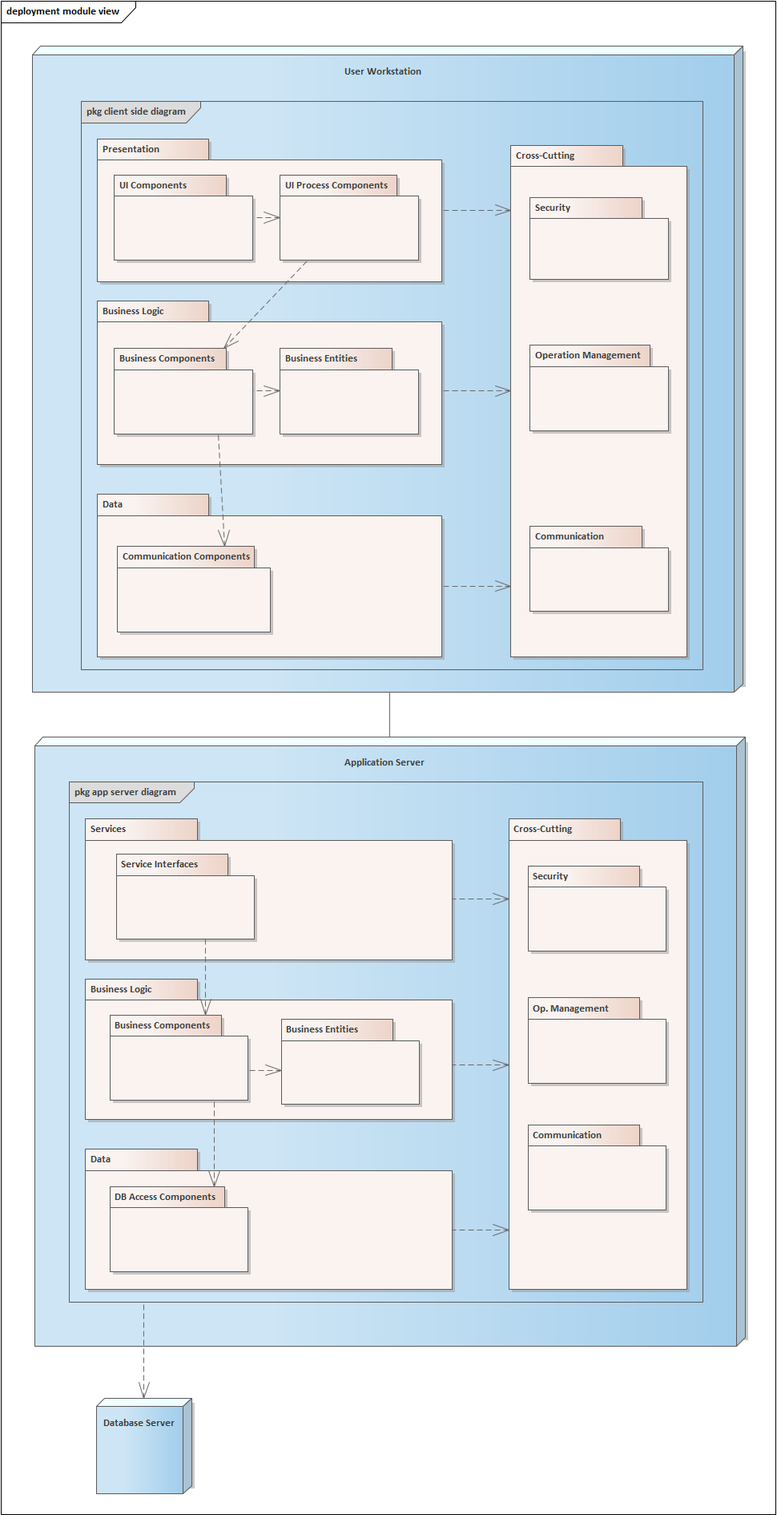
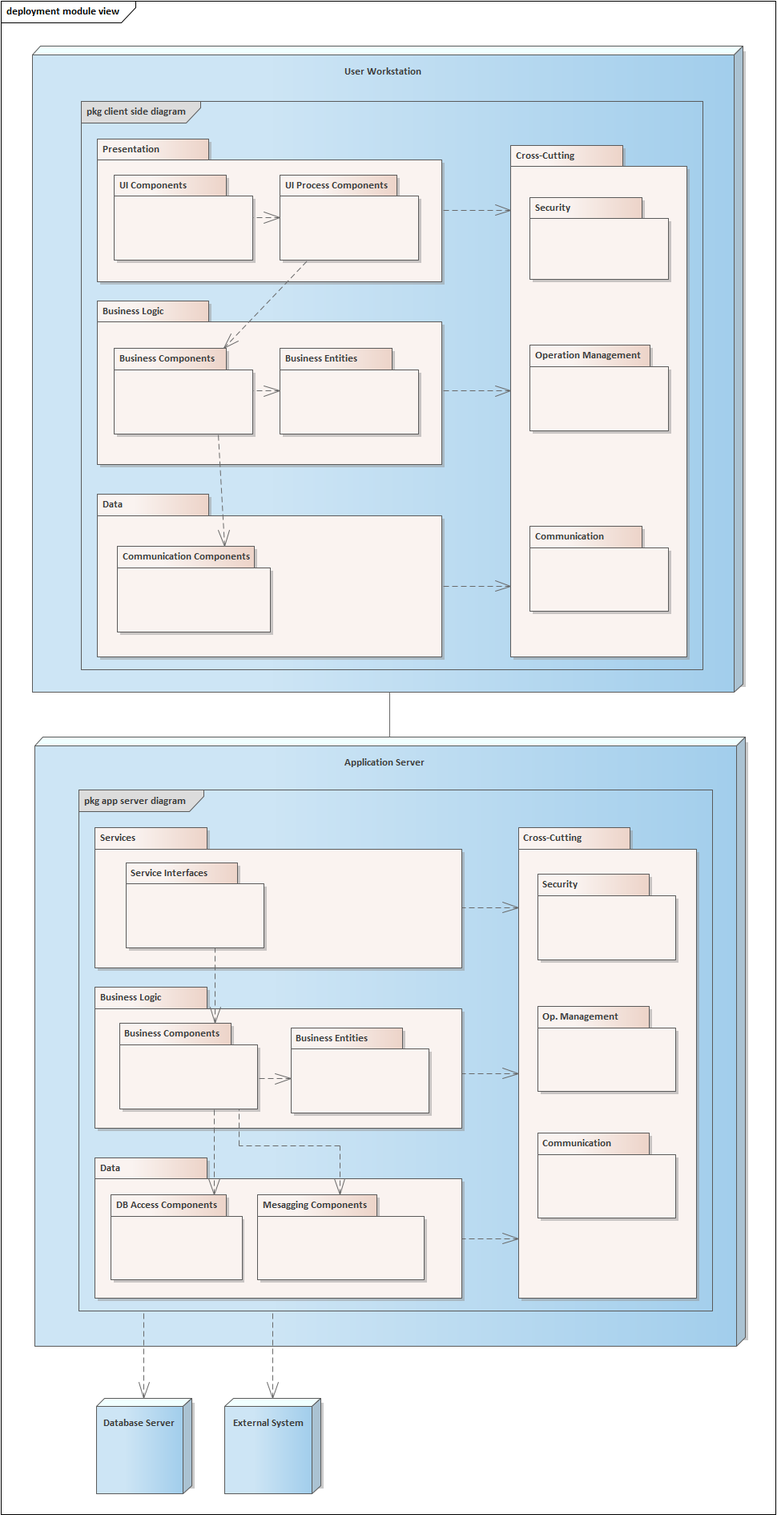
iteration 1: overall system architecture

Changed region(s): [[0.0928, 0.4995, 0.6186, 0.8741], [0.6495, 0.5307, 0.9278, 0.8741], [0.2784, 0.9053, 0.433, 0.9989]]

diff --git a/README.md b/README.md
@@ -11,29 +11,33 @@
 ## System Features:
 
 ### Client Module:
-1. `Register client`
-2. `Delete client`
-3. `Disable client`
-4. `Enable client`
+1. `CE-1 Register client`
+2. `CE-2 Delete client`
+4. `CE-3 Enable client`
+5. `CE-4 Disable client`
 ### Schedule Module:
-1. `Schedule appointment`
-2. `Edit appointment`
-3. `Cancel appointment`
-4. `Finalize appointment`
-### Availability Module:
-1. `Add availability time slot`
-2. `Edit availability time slot`
-3. `Delete availability time slot`
+1. `CA-1 Schedule appointment`
+2. `CA-2 Edit appointment`
+3. `CA-3 Cancel appointment`
+4. `CA-4 Finalize appointment`
+### Appointment Availability Module:
+1. `CB-1 Add availability time slot`
+2. `CB-2 Edit availability time slot`
+3. `CB-3 Delete availability time slot`
 ### Service Module:
-1. `Register service`
-2. `Edit service`
-3. `Disable service`
-4. `Enable service`
-5. `Delete service`
-
+1. `CD-1 Register service`
+2. `CD-2 Disable service`
+4. `CD-3 Enable service`
+5. `CD-4 Delete service`
+3. `CD-5 Edit service`
+### Assistant Module:
+1. `CC-1 Register assistant`
+2. `CC-2 Edit assistant`
+3. `CC-3 Disable assistant`
+4. `CC-4 Enable assistant`
 
 ## Proposed Methodology or Methods:
-- `Attribute-Driven Design
+- `Attribute-Driven Design`
 ### Methodology Activities:
 - `Pending`
 
@@ -114,7 +118,7 @@
 | CON-1 | Users must interact with the system through a web browser in different platforms (Windows, OSX, and Linux and different devices like computers or mobiles) |
 | CON-2 | Code must be hosted on a proprietary Git-based platform like Github                                                                                        |
 | CON-3 | Future support for mobile clients like IOS and Android                                                                                                     |
-| CON-4 | A minimum of 50 simultaneous users must be supported                                                                                                       |
+| CON-4 | Race condition problems must be avoided during high user traffic or parallel processing.                                                                   |
 
 ### Concerns
 
@@ -138,17 +142,18 @@
 
 Quality Attribute Scenarios
 
-| ID  | Quality Attribute | Scenario                                                                                                                                                                                            | Associated Use Case |
-| --- | ----------------- | --------------------------------------------------------------------------------------------------------------------------------------------------------------------------------------------------- | ------------------- |
-| 1   | Availability      | The system must be operational and accessible during working hours, including weekends, with an uptime of 99.5% or higher.                                                                          | All                 |
-| 2   | Security          | The system must use strong data encryption protocols for sensitive information, such as passwords and bank account details, to protect against unauthorized access and breaches.                    | ---                 |
-| 3   | Modifiability     | The system must support the addition of new features within a maximum of 2 months, including development, testing and deployment phases.                                                            | All                 |
-| 4   | Usability         | The system should support multiple languages to accommodate a diverse user base, with localization depending on the geographic region of users.                                                     | All                 |
-| 5   | Performance       | The system must support at least 500 users concurrently querying the prices of services and should be capable of handling up to 1,000 without decreasing average latency by more than 20%.          | ---                 |
-| 6   | Interoperability  | The system must support integration with external system, such as messaging and email services ensuring communication is reliable and occurs within 10 seconds of triggered events.                 | All                 |
-| 7   | Testability       | The system must support integration testing independently of external systems by using stubs                                                                                                        | All                 |
-| 8   | Security          | The system must validate user credentials against an Identity User Service, ensuring that once logged in, users can only access the actions and data they are authorized to use or view             | All                 |
-| 9   | Reliability       | The system must ensure automated, seamless deployment of new features and bug fixes to production, with a maximum of downtime of 5 minutes per deployment and no rollback incidents in 95% of cases | All                 |
+| ID  | Quality Attribute | Scenario                                                                                                                                                                                                                       | Associated Use Case          |
+| --- | ----------------- | ------------------------------------------------------------------------------------------------------------------------------------------------------------------------------------------------------------------------------ | ---------------------------- |
+| 1   | Availability      | The system must be operational and accessible during working hours, including weekends, with an uptime of 99.5% or higher.                                                                                                     | All                          |
+| 2   | Security          | The system must use strong data encryption protocols for sensitive information, such as passwords and bank account details, to protect against unauthorized access and breaches.                                               | ---                          |
+| 3   | Modifiability     | The system must support the addition of new features within a maximum of 2 months, including development, testing and deployment phases.                                                                                       | All                          |
+| 4   | Usability         | The system should support multiple languages to accommodate a diverse user base, with localization depending on the geographic region of users.                                                                                | All                          |
+| 5   | Performance       | The system must support at least 500 users concurrently querying the prices of services and should be capable of handling up to 1,000 without decreasing average latency by more than 20%.                                     | ---                          |
+| 6   | Interoperability  | The system must support integration with external system, such as messaging and email services ensuring communication is reliable and occurs within 10 seconds of triggered events.                                            | All                          |
+| 7   | Testability       | The system must support integration testing independently of external systems by using stubs                                                                                                                                   | All                          |
+| 8   | Security          | The system must validate user credentials against an Identity User Service, ensuring that once logged in, users can only access the actions and data they are authorized to use or view                                        | All                          |
+| 9   | Reliability       | The system must ensure automated, seamless deployment of new features and bug fixes to production, with a maximum of downtime of 5 minutes per deployment and no rollback incidents in 95% of cases                            | All                          |
+| 10  | Reliability       | The system must ensure that race conditions are avoided during concurrent transactions, ensuring that multiple users or processes can access and modify shared data without leading to inconsistent states or data corruption. | CA-1, CA-2, CB-1, CB-2, CB-3 |
 
 
 ## Attribute-Driven Design (ADD)
@@ -160,16 +165,16 @@ The objective of starting an Attribute-Driven Design process is to establish a s
 **Task**: Identify which requirement will be considered as architectural drivers.
 
 
-| Scenario ID           | Importance to the Customer | Difficulty of Implementation |
-| --------------------- | -------------------------- | ---------------------------- |
-| QA-1 Availability     | High                       | High                         |
-| QA-9 Reliability      | High                       | High                         |
-| QA-6 Interoperability | High                       | Medium                       |
-| QA-3 Modifiability    | High                       | Medium                       |
-| QA-2, QA-8 Security   | High                       | Medium                       |
-| QA-5 Performance      | Medium                     | High                         |
-| QA-7 Testability      | Medium                     | Medium                       |
-| QA-4 Usability        | Low                        | Medium                       |
+| Scenario ID             | Importance to the Customer | Difficulty of Implementation |
+| ----------------------- | -------------------------- | ---------------------------- |
+| QA-1 Availability       | High                       | High                         |
+| QA-9, QA-10 Reliability | High                       | High                         |
+| QA-6 Interoperability   | High                       | Medium                       |
+| QA-3 Modifiability      | High                       | Medium                       |
+| QA-2, QA-8 Security     | High                       | Medium                       |
+| QA-5 Performance        | Medium                     | High                         |
+| QA-7 Testability        | Medium                     | Medium                       |
+| QA-4 Usability          | Low                        | Medium                       |
 
 | Category                        | Details                                                                                                                                                                                                                                                                                                                                                             |
 | ------------------------------- | ------------------------------------------------------------------------------------------------------------------------------------------------------------------------------------------------------------------------------------------------------------------------------------------------------------------------------------------------------------------- |
@@ -183,7 +188,7 @@ The objective of starting an Attribute-Driven Design process is to establish a s
 #### Step 2: Establishing Iteration Goal by Selecting Drivers
 
 The iteration goal is to establish an initial overall structure for the system considering the drivers that influence the general structure of the system:
-* QA-9 Reliability
+* QA-9, QA-10 Reliability
 * QA-1 Availability
 * QA-2, QA-8 Security
 * CON-1 Users must interact with the system through a web browser in different platforms (Windows, OSX, and Linux and different devices like computers or mobiles)
@@ -246,6 +251,23 @@ The following figures represent the reference architecture and deployment patter
 
 #### Step 5: Instantiate Architectural Elements, Allocate Responsibilities, and Define Interfaces
 
+The instantiation design decisions considered and made are summarized in the following table:
+
+| Design Decision and Location                                                         | Rationale                                                                                                                                                                                                                                                                                                                                                                                                                                                                                                                                                                                                                                                                                                                                                                                                                                                                                                                                                                                                                                                                    |
+| ------------------------------------------------------------------------------------ | ---------------------------------------------------------------------------------------------------------------------------------------------------------------------------------------------------------------------------------------------------------------------------------------------------------------------------------------------------------------------------------------------------------------------------------------------------------------------------------------------------------------------------------------------------------------------------------------------------------------------------------------------------------------------------------------------------------------------------------------------------------------------------------------------------------------------------------------------------------------------------------------------------------------------------------------------------------------------------------------------------------------------------------------------------------------------------- |
+| Use Angular to implement the front-end component for Web Browsers                    | Angular is selected because the team has experience with this framework and because it supports the development of responsive front-ends. This is necessary to support **CON**-1<br><br>Discarded alternatives are:<br>-React: While React provides a flexible and fast rendering engine, it does not provide as many built-in features as Angular, which would require the team to integrate additional tools for routing, state management, and form handling, potentially complicating maintainability and increasing development time<br>-Vue.js: Although Vue.js is easier to integrate and offers simplicity, it is not as widely adopted in enterprise-scale projects as Angular. This could pose challenges in terms of long-term support, available resources, and scalability for the project. It may also lead to potential issues with cohesion and maintainability in larger teams or projects.                                                                                                                                                                 |
+| Use Swift for the Mobile Application (IOS)                                           | Swift is selected for iOS app development due to its strong performance, modern syntax, and security features. It provides a native and highly optimized experience for iOS users. It is necessary to support **CON-3**                                                                                                                                                                                                                                                                                                                                                                                                                                                                                                                                                                                                                                                                                                                                                                                                                                                      |
+| Use Android (Java/Kotlin) for Mobile Application Development                         | Android is selected due to its wide user base and flexibility in supporting different device types. With Java/Kotlin, the team can leverage a large ecosystem, ensuring scalability and maintainability. This is necessary to support **CON-3**                                                                                                                                                                                                                                                                                                                                                                                                                                                                                                                                                                                                                                                                                                                                                                                                                              |
+| Host the code on a proprietary Git-based platform (GitHub)                           | GitHub is selected due to its industry-standard status, support for Git workflows, integration with CI/CD pipelines, and its broad ecosystem of tools that facilitate collaboration, version control, and code reviews. It supports **CON-2** by providing **interoperability** with development tools and services.<br><br>Discarded alternatives: GitLab (while it offers similar features, GitHub has a larger user base and integrations with other platforms).                                                                                                                                                                                                                                                                                                                                                                                                                                                                                                                                                                                                          |
+| Implement Concurrency Control Mechanisms to Avoid Race Conditions                    | To ensure **reliability**, the system will implement mechanisms like **optimistic concurrency control**, **pessimistic locking**, or **transactional consistency** to prevent race conditions during concurrent data modifications. These mechanisms will ensure that multiple users or processes can access and modify shared data safely, without causing inconsistent or corrupted states. It is necessary to support **QA-10** and **CON-4**<br>  <br>Discarded alternatives: Not using any concurrency control (which would lead to unpredictable behavior and data corruption in high-load scenarios).<br>                                                                                                                                                                                                                                                                                                                                                                                                                                                             |
+| Use C# for Application Server                                                        | C# is selected for the application server because it is well-suited for building **scalable, high-performance web applications**. It has a strong ecosystem with **ASP.NET Core**, which offers robust support for building REST APIs and can handle high numbers of concurrent connections. **C#** supports **asynchronous programming** for high scalability and **reliability** (QA-10) by enabling the application to handle multiple requests without blocking threads.  <br>Additionally, the **.NET** ecosystem provides excellent tooling for continuous integration and testing, improving **modifiability** (QA-3).                                                                                                                                                                                                                                                                                                                                                                                                                                                |
+| Use a relational database                                                            | A relational database is selected due to its ability to enforce **data consistency** and its **maturity** in handling complex queries. Relational databases (RDBMS) ensure **data integrity**, and they are well-suited for structured data where relationships between tables are critical. They also offer **transactional support** to handle large amounts of data reliably. The database choice supports **QA-9** (reliability) by ensuring that the application maintains data consistency even in the face of failures.  <br>  <br>Discarded alternatives:  <br>- **NoSQL databases**: While NoSQL databases provide flexibility, they lack the strict consistency guarantees and transactional support required by the system, which could lead to data inconsistency in critical business processes.                                                                                                                                                                                                                                                                |
+| Use Docker containers for deployment                                                 | Because the application has to be moved across environments (QA-7), deploying the application as a set of container images is preferred.<br><br>Virtual Machines are discarded because they are considerably larger than container images and requires more resources  than containers.                                                                                                                                                                                                                                                                                                                                                                                                                                                                                                                                                                                                                                                                                                                                                                                      |
+| Define and expose REST APIs to the front-end and document them using Swagger/OpenAPI | REST APIs are chosen to facilitate communication between the front-end and the back-end. These APIs provide a standardized way for the front-end (Angular, Swift, or Android clients) to interact with the business logic and data layers. The use of **Swagger/OpenAPI** ensures that these APIs are well-documented and easily understandable by both developers and automated tools.<br><br>The documentation provides clarity and reduces ambiguity during development, contributing to better **modifiability** (QA-3) and **interoperability** (QA-7). Additionally, it helps improve **testability** (QA-7) by enabling automated API tests.<br><br>**Discarded alternatives:** SOAP: While SOAP provides a more rigid protocol for communication, it is less flexible and has more overhead than RESTful APIs. GraphQL: While GraphQL offers fine-grained data fetching, it can lead to more complex queries and requires more effort to implement and maintain. This would increase development time and complexity, which is not necessary for the current system. |
+| Use TLS (HTTPs) to encrypt data in transit                                           | TLS (Transport Layer Security) is selected to ensure the confidentiality and integrity of data exchanged between the front-end and back-end, as well as any communication with external systems. By encrypting data in transit, TLS prevents man-in-the-middle (MITM) attacks and eavesdropping on sensitive information, such as user credentials or payment details. This choice supports **Security** (QA-2) and ensures compliance with industry standards for data protection.                                                                                                                                                                                                                                                                                                                                                                                                                                                                                                                                                                                          |
+| Encrypt confidential data in database with symmetric encryption                      | Confidential data, such as user passwords, financial records, and other personally identifiable information, is encrypted within the database to protect it in the event of a data breach. Using encryption ensures that even if unauthorized access occurs, sensitive data remains unreadable. This supports **Security** (QA-2).                                                                                                                                                                                                                                                                                                                                                                                                                                                                                                                                                                                                                                                                                                                                           |
+
+#### Step 6: Sketch Views and Record Design Decisions
 
 **Module view**
 
@@ -263,11 +285,10 @@ The following figures represent the reference architecture and deployment patter
 | Business Components      | These modules either implement business operations that can be performed locally or expose business functionality from the server side                                                                                    |            |
 | Business Entities        | These entities make up the domain model. They may be less detailed than those on the server side.                                                                                                                         |            |
 | Communication Components | These modules consume the services provided by the application running on the server side.                                                                                                                                |            |
-| ---                      | ---                                                                                                                                                                                                                       | ---        |
 | Application Server       |                                                                                                                                                                                                                           |            |
 | Services                 | This layer contains modules that expose services that are consumed by the clients                                                                                                                                         |            |
 | Business Logic           | This layer contains modules that perform business logic operations that require processing on the server side.                                                                                                            |            |
-| Data                     | This layer contains modules that are responsible for data persistence and communication with the database server                                                                                                          |            |
+| Data                     | This layer contains modules that are responsible for data persistence and communication with the database server and external system like email and messaging communication                                               |            |
 | Service Interface        | These module expose services that are consumed by the clients                                                                                                                                                             |            |
 | Business Components      | These modules implement business operations                                                                                                                                                                               |            |
 | Business Entities        | These entities make up the domain model                                                                                                                                                                                   |            |
@@ -286,9 +307,32 @@ The responsibilities of the elements are summarized in the following table:
 | User Workstation   | The user's Mobile or Computer, which hosts the client side logic of the application  |
 | Application Server | The server that hosts serevr side logic of the application an also servers web pages |
 | Database Server    | The server that hosts the legacy database.                                           |
+
 Also, information about relationships between some elements in the diagram that is worth recording is summarized in the following table:
 
 | Relationship                                    | Description                                                                                            |
 | ----------------------------------------------- | ------------------------------------------------------------------------------------------------------ |
 | Between Application Server and Database Server  | Communication with the database will be done using any protocol in the stack of tcp/ip                 |
 | Between User Workstation and Application Server | Communication with the Application Server will be done using http(s) protocol to secure communication. |
+#### Step 7: Perform Analysis of Current Design and Review Iteration Goal and Achievement of Design Purpose
+
+| Not Addressed | Partially Addressed                                                       | Addressed | Design Decisiones Made During Iteration                                                                                                                                                                                                              |
+| ------------- | ------------------------------------------------------------------------- | --------- | ---------------------------------------------------------------------------------------------------------------------------------------------------------------------------------------------------------------------------------------------------- |
+|               | Client, Schedule, Appointment Availability, Service and Assistant Modules |           | Selected reference architecture establishes the modules that will support this functionality.                                                                                                                                                        |
+|               |                                                                           | CON-1     | The framework Angular will run on the client web browser.                                                                                                                                                                                            |
+|               |                                                                           | CON-2     | The project will be hosted in a Git-based platform (Github).                                                                                                                                                                                         |
+|               |                                                                           | CON-3     | The application will run in native in IOS and Android using a layered architecture.                                                                                                                                                                  |
+|               | CON-4                                                                     |           | Initial measures were considered, but further measures are needed.                                                                                                                                                                                   |
+|               |                                                                           | CRN-1     | Establishing an overall initial system architecture was the goal of this iteration.                                                                                                                                                                  |
+|               | CRN-2                                                                     |           | Technologies that have been considered up to this point take into account the knowledge of the developers.                                                                                                                                           |
+| CRN-3         |                                                                           |           | No relevant decisions were made.                                                                                                                                                                                                                     |
+|               | QA-1<br>                                                                  |           |                                                                                                                                                                                                                                                      |
+|               |                                                                           | QA-2      | The measures selected align with industry standards and safeguard sensitive information                                                                                                                                                              |
+|               | QA-3                                                                      |           | The client-server style separates concerns, allowing independent development of client and server components. REST APIs and layered architecture further isolate system parts, making updates and changes easier. But further iterations can be done |
+| QA-4          |                                                                           |           | No relevant decisions were made.                                                                                                                                                                                                                     |
+| QA-5          |                                                                           |           | No relevant decisions were made.                                                                                                                                                                                                                     |
+|               | QA-6                                                                      |           | Initial overall system architecture were considered, but further measures are needed.                                                                                                                                                                |
+|               | QA-7                                                                      |           | A measure has been selected to contribute to achieving testability by ensuring consistent and reproducible test environments. However, further measures are needed.                                                                                  |
+|               |                                                                           | QA-8      | The measures selected align with industry standards and safeguard sensitive information                                                                                                                                                              |
+|               | QA-9                                                                      |           | A measure has been selected to contribute. However, further measures are needed.                                                                                                                                                                     |
+|               | QA-10                                                                     |           | Techniques were identified, but further details are needed.                                                                                                                                                                                          |
